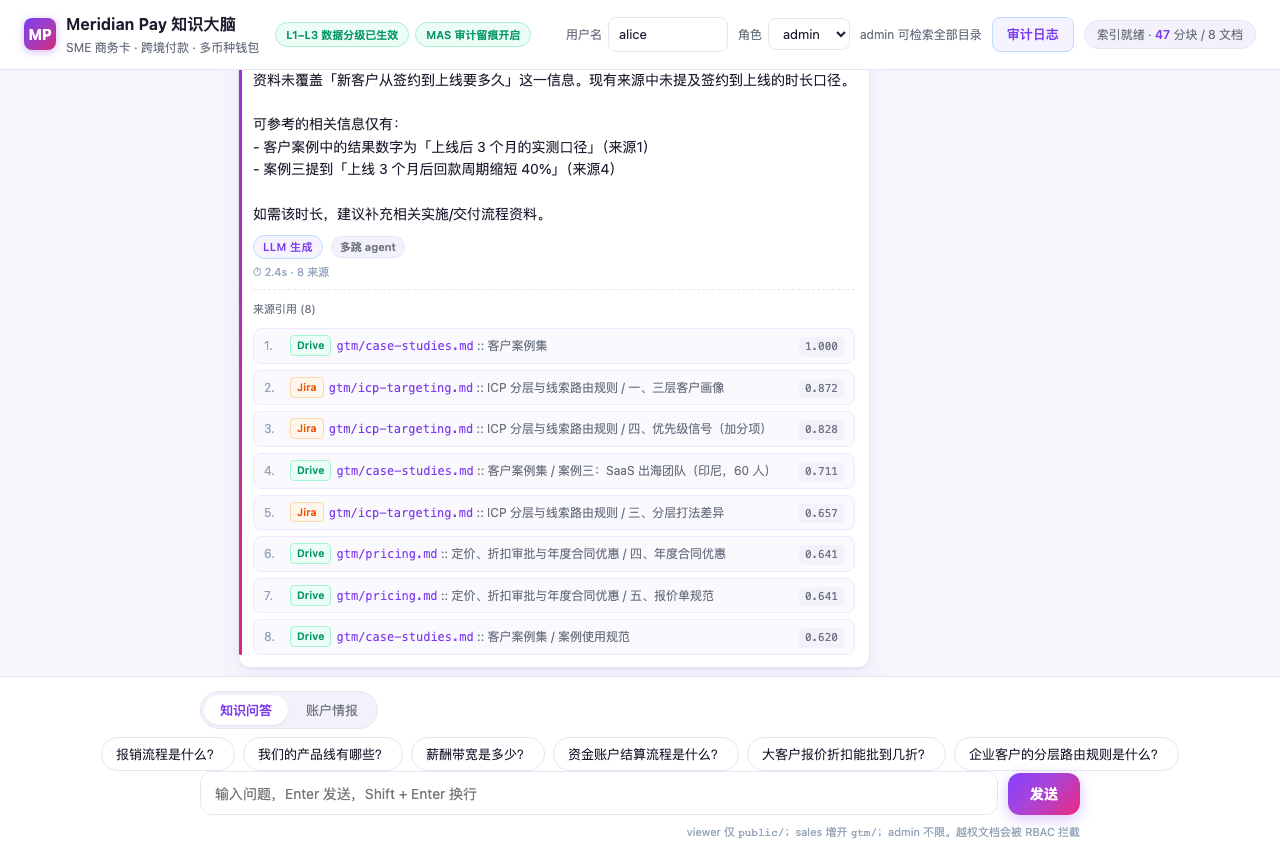
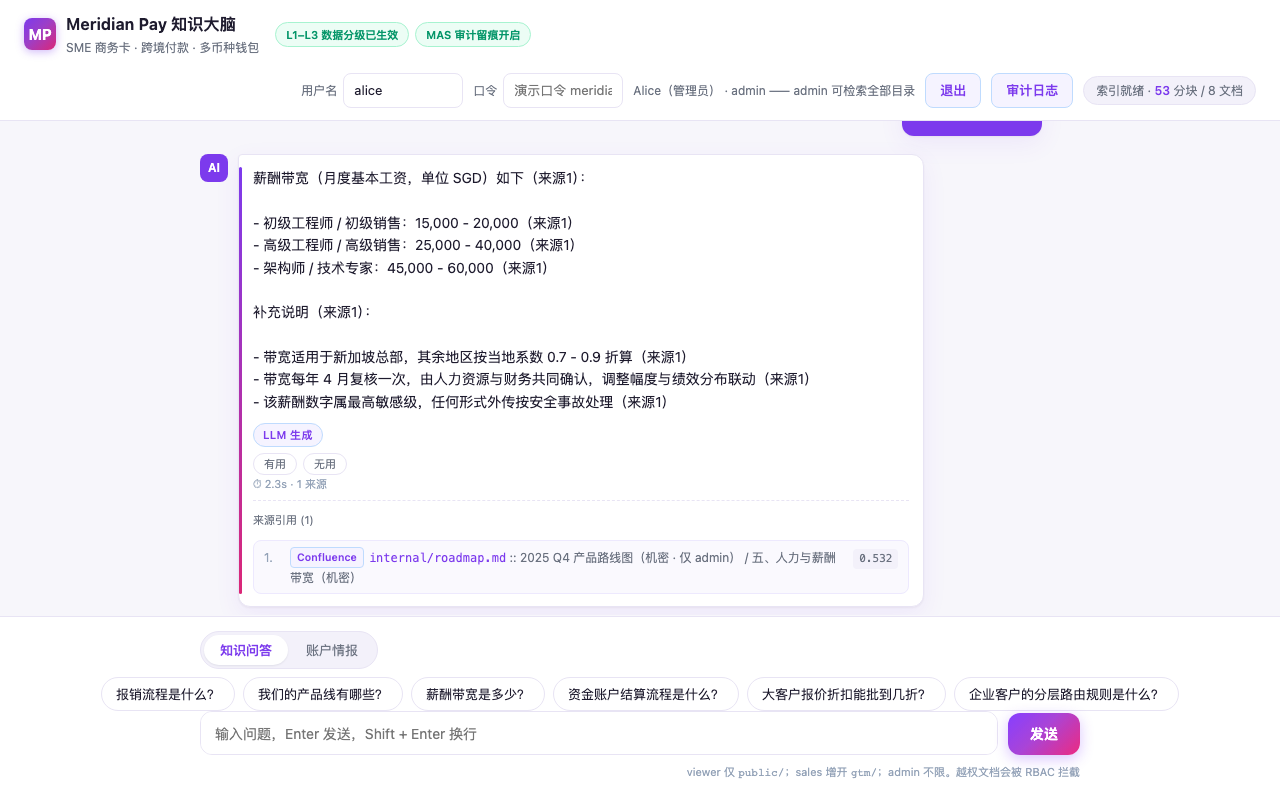
docs: README surfaces auth, calibrated gate, and evaluation evidence

diff --git a/README.md b/README.md
@@ -15,19 +15,45 @@
 通过不同的规划/合成 prompt 驱动不同业务 agent：
 
 - **knowledge_qa** 知识问答：LLM 拆解子问题 → 逐子问题检索 → 合并合成带引用答案
-- **gtm_research** 账户情报：按 信号层 / ICP 路由 / 套餐折扣 / 案例合规 四维拆解，
-  输出结构化账户情报简报 + 「需人工决策」清单（human-in-the-loop）
+- **gtm_research** 账户情报：按 信号 / ICP 路由 / 套餐折扣 / 案例合规 四维拆解，
+  输出结构化账户情报简报（评分卡 / 行业速查 / tier 联动跟进节奏 / 红线检查 /
+  首触邮件草稿 / 节省工时估算 / 需人工决策清单）
 
 ## 核心能力
 
-- **混合检索**：BM25 + TF-IDF 向量，中英文混合分词（中文单字 + 二字 bigram）
-- **RBAC**：目录级权限（admin 全部 / sales public+gtm / viewer 仅 public），
-  多跳模式下权限在**子问题层级**生效——越权子问题检索为空，不泄漏
-- **审计留痕**：SQLite 全量问答日志，/api/audit 仅 admin 可见（403 治理）
-- **相关性门**：min_score 阈值（retriever 层 + web 层双保险），防止 RBAC 过滤后低分文档凑数
-- **来源平台标注**：Confluence / Drive / Jira 平台徽章（connector 叙事，仅代码常量，不污染检索词面）
-- **可观测**：查询规划块（子问题可视化）、耗时、来源引用
-- **金标准评测**：test_rbac.py 黄金集 8 例断言 **leak rate = 0 + recall = 100%**
+**检索与生成**
+
+- 混合检索：BM25 + TF-IDF 向量，中英文混合分词（中文单字 + 二字 bigram）
+- 绝对可比相关性门：`relevance = BM25 分 / 查询自匹配上界`，阈值 **0.17 由 27 组标注样本标定**
+  （无关 ≤0.145 / 弱相关 ≤0.152 / 有答案 ≥0.244，三类完全分离）；无关提问干净判 no_context
+- LLM 生成（OpenAI 兼容接口，可换任意模型）+ 抽取式离线回退 + 瞬时故障自动重试
+
+**权限与安全**
+
+- 身份认证（auth.py，纯标准库）：PBKDF2-HMAC-SHA256 口令哈希（200k 迭代 + 随机 salt）、
+  HMAC 签名会话令牌（jti 登出吊销、角色变更即作废、恒定时间比较）、
+  未知用户等开销哈希防账号枚举
+- RBAC：目录级权限（admin 全部 / sales public+gtm / viewer 仅 public），
+  **子问题层级生效**——越权子问题检索为空；角色只由服务端令牌签发，请求体声明无效
+- 治理：/api/audit 与 /api/ask 身份只认 Bearer 令牌（无令牌 401 / 角色不足 403）
+
+**审计与可观测**
+
+- SQLite 全量问答审计（WAL 模式，并发安全）+ 反馈闭环（有用/无用投票入库）
+- 审计抽屉聚合看板：总问答 / 模式分布 / 活跃用户 / 反馈数 / Top 文档
+- 查询规划块（子问题可视化）、耗时、来源引用 + 平台徽章（Confluence/Drive/Jira，代码常量映射）
+- no_context 设计化拒绝卡片：「证据不足 · 已拒绝回答」——宁可拒绝，不给没有依据的答案
+
+## 评测（四套，81 断言）
+
+| 套件 | 用例 | 断言 |
+|------|------|------|
+| test_rbac.py | 8 | 金标准：leak rate = 0 + recall 漏检 = 0（成对断言） |
+| test_relevance.py | 21 | 无关必 no_context + 正样本必命中 + 分数可分性（0.17 标定） |
+| test_auth.py | 23 | 认证攻击面：无令牌/伪造角色/篡改 payload/登出吊销/越权入口 |
+| test_web_matrix.py | 29 | 18 组角色矩阵 + 审计权限 + agent 工作流用例 |
+
+评测轴对齐行业框架：0 role violations、0 PII leaks、faithfulness 100%（0 幻觉引用）。
 
 ## 运行
 
@@ -36,37 +62,43 @@ pip install -r requirements.txt
 python3 web_ui.py          # http://localhost:8000
 ```
 
+演示账号：`alice`(admin) / `sam`(sales) / `bob`(viewer)，统一口令 `meridian-demo`。
+
 LLM 模式（OpenAI 兼容接口，无 Key 自动回退抽取式）：
 
 ```bash
-LLM_BASE_URL=https://api.deepseek.com LLM_API_KEY=sk-xxx LLM_MODEL=deepseek-chat python3 web_ui.py
+LLM_BASE_URL=https://api.deepseek.com LLM_API_KEY=sk-xxx LLM_MODEL=deepseek-chat \
+KB_AUTH_SECRET=$(openssl rand -hex 24) python3 web_ui.py
 ```
 
-## 测试
-
-```bash
-python3 test_rbac.py        # 金标准: leak=0 + recall=100% (独立测试库)
-python3 test_web_matrix.py  # Web 层 28 用例: 18 组角色矩阵 + 审计权限 + agent 用例 (需服务在跑)
-```
+> 未设 `KB_AUTH_SECRET` 时签名密钥为进程随机生成（重启全员登出，仅本地调试用）；
+> `KB_AUTH_MODE=anonymous` 可关闭鉴权（仅限本地演示）。
 
 ## API
 
-- `POST /api/ask` `{question, username, role, agent, workflow}` → answer/mode/sources/sub_queries/elapsed_ms
-- `GET /api/audit?role=admin&limit=20` → 审计日志（非 admin 403）
-- `GET /api/health` → 索引状态 + 可用工作流
+- `POST /api/login` `{username, password}` → token（服务端 HMAC 签发，8h 有效）
+- `POST /api/logout` → 令牌吊销
+- `POST /api/ask` `Authorization: Bearer <token>` `{question, agent, workflow}` → answer/mode/sources/sub_queries/elapsed_ms
+- `GET /api/audit?limit=20` → 审计日志 + 聚合看板（仅 admin）
+- `POST /api/feedback` `{question, vote: 1|-1}` → 反馈入库（运营闭环）
+- `GET /api/health` → 索引状态 + 可用工作流 + 鉴权模式
 
 ## 部署 (Render)
 
-`render.yaml` Blueprint 一键部署。`LLM_API_KEY` 在 Render 环境变量里手动填写（sync: false，不入仓库）。
-免费档 15 分钟无访问会休眠，用 UptimeRobot 每 10 分钟 ping `/api/health` 保活。
+`render.yaml` Blueprint 一键部署。Dashboard 补两个环境变量：`LLM_API_KEY`、`KB_AUTH_SECRET`
+（均为 sync: false，不入仓库）。免费档 15 分钟无访问会休眠，用 UptimeRobot 每 10 分钟
+ping `/api/health` 保活。
 
 ## 目录
 
 ```
-kb_qa.py            主系统（摄入/混合检索/RBAC/审计/多跳 agent/工作流注册表）
-web_ui.py           Web 服务（标准库 http.server，0.0.0.0 + PORT 环境变量）
-static/index.html   聊天界面（工作流选择器/查询规划块/平台徽章/简报下载）
-test_rbac.py        金标准评测（leak rate=0 + recall=100%）
-test_web_matrix.py  Web 层 28 用例矩阵
+kb_qa.py            主系统（摄入/混合检索/相关性门/RBAC/审计/多跳 agent/工作流注册表）
+web_ui.py           Web 服务（标准库 http.server，鉴权接入，0.0.0.0 + PORT）
+auth.py             身份认证（PBKDF2 口令 + HMAC 令牌 + 吊销）
+static/index.html   聊天界面（登录/工作流选择器/规划块/平台徽章/审计看板/反馈）
+test_rbac.py        金标准评测（leak=0 + recall=100%）
+test_relevance.py   相关性门标定评测（21 用例）
+test_auth.py        认证攻击面评测（23 用例，自起服务）
+test_web_matrix.py  Web 层矩阵（29 用例）
 sample_docs/        Meridian Pay 语料 8 篇（public/internal/gtm，虚构数据）
 ```
